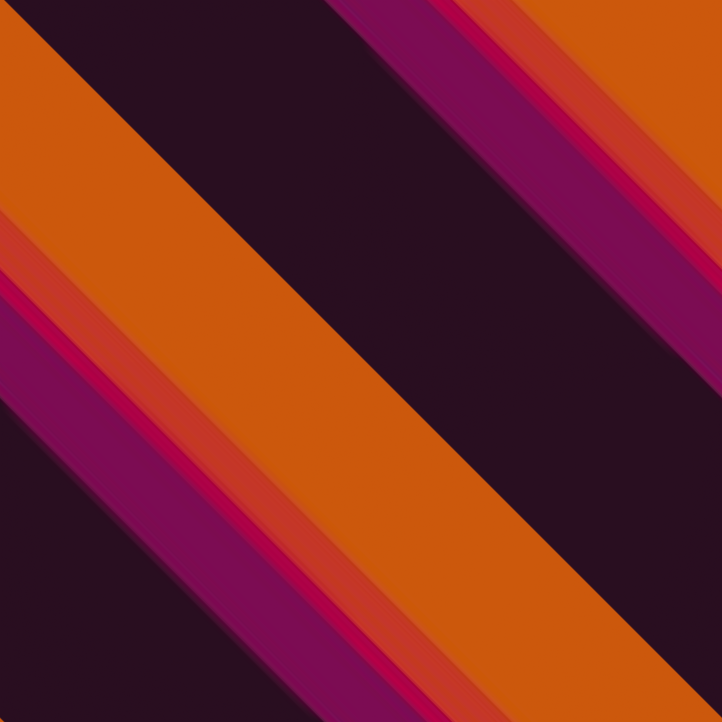
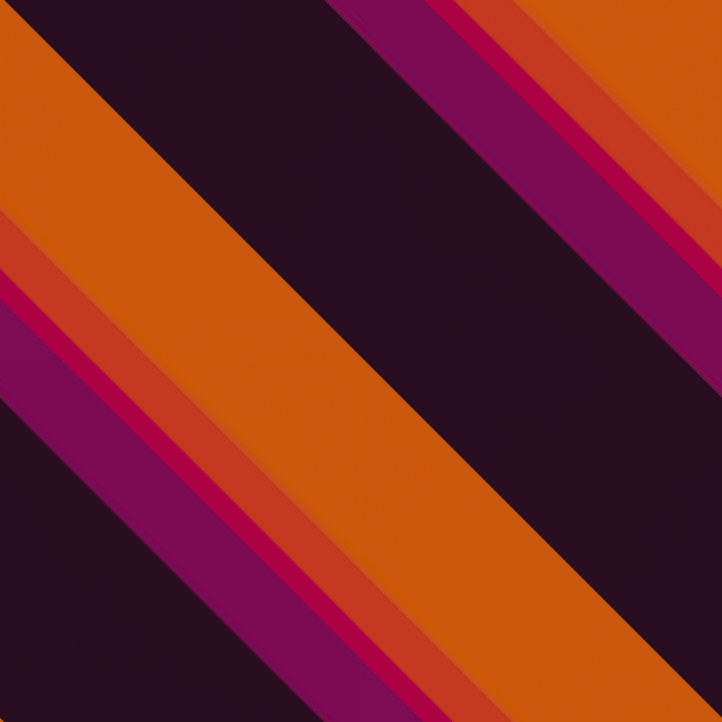
Updated Gyan's tiles

diff --git a/assets/css/style.min.css b/assets/css/style.min.css
@@ -1,1 +1,1 @@
-@import"https://fonts.googleapis.com/css?family=Roboto:300,800";input:focus,textarea:focus,button:focus{outline:none}.triangle{color:rgba(255,255,255,.9)}.dtext{position:relative;color:#fff;font-family:League Spartan;font-weight:300;font-size:18px;padding-top:0;margin:10px}.10px{padding:10px;margin:10px;height:10px}.purplehead{margin:auto;height:148px;width:auto;background-image:-webkit-linear-gradient(#4f173c 0,#210b19 100%);background-image:linear-gradient(#4f173c 0,#210b19 100%)}.zero{padding-top:16px;font-family:League Spartan;font-size:60px;color:#fff}.subzero{font-family:League Spartan;font-size:16px;color:#ff6e0f}body{background-image:url(http://gyanl.github.io/zerodesign/assets/img/bg.png);background-size:240px 240px;margin:0}.header-fixed{background:rgba(255,0,0,.1);box-shadow:0 2px 10px -6px rgba(0,0,0,.75);position:relative;top:0;left:0;right:0;padding:15px;margin:auto;width:auto;font-family:Roboto,Helvetica,sans-serif;font-weight:300;font-size:18px;color:#fff}.header-fixed a{text-decoration:none}.header-fixed p{font-family:League Spartan;text-transform:uppercase;padding-top:6px;width:710px;margin:auto}.blogcontainer{width:100%;background:#fff;margin:auto}.blogcontainer img{margin:auto;width:720px}.Gyan{margin-left:132px;margin-top:36px;font-family:Roboto;font-size:40px;font-weight:800}.card{display:inline-block;border-radius:6px;position:relative;margin:10px;width:320px;background-color:#fff;box-shadow:0 2px 10px -6px rgba(0,0,0,.75);-webkit-transition-duration:.4s;transition-duration:.4s;-webkit-transition-property:box-shadow,-webkit-transform;transition-property:box-shadow,transform;-webkit-transform:translateZ(0);transform:translateZ(0)}.card:hover,.card:active{box-shadow:0 7px 20px -4px rgba(0,0,0,.25);-webkit-transform:scale(1.05);transform:scale(1.05)}.card img{padding-top:0;border-radius:6px 6px 0 0}.txt{width:220px;font-family:Roboto,Helvetica,sans-serif;font-weight:300;font-size:18px;position:relative;text-align:center;padding:4px;margin-bottom:6px;color:rgba(0,0,0,.75)}.blogtitle{padding-top:120px;margin:auto;width:710px;color:#333;-webkit-font-smoothing:antialiased;-moz-osx-font-smoothing:grayscale;font-family:Roboto,Helvetica,sans-serif;letter-spacing:.16px;letter-spacing:.01rem;font-weight:700;font-style:normal;font-size:36px;line-height:1.2;letter-spacing:-.003em}.blogsubtitle{margin:auto;width:710px;margin-top:4px;color:rgba(0,0,0,.44);-webkit-font-smoothing:antialiased;-moz-osx-font-smoothing:grayscale;font-family:Roboto,Helvetica,sans-serif;letter-spacing:.16px;letter-spacing:.01rem;font-weight:300;font-size:14px;letter-spacing:-.003em}.blogtxt{margin:auto;padding-bottom:32px}.blogtxt i{font-style:italic}.blogtxt p{-webkit-font-smoothing:antialiased;-moz-osx-font-smoothing:grayscale;font-family:Georgia,Cambria,Times New Roman,Times,serif;letter-spacing:-.01em;font-weight:400;font-size:20px;line-height:1.5;margin:auto;width:710px;padding-top:16px;padding-bottom:16px}.blogcontainer a{color:#3b58c4;text-decoration:none;background-image:-webkit-linear-gradient(bottom,#f0f0f0,#f0f0f0 .08333em,#3b58c4 .08333em,#3b58c4 .125em,#f0f0f0 .125em);background-image:linear-gradient(to top,#f0f0f0,#f0f0f0 .08333em,#3b58c4 .08333em,#3b58c4 .125em,#f0f0f0 .125em);text-shadow:-.04167em -.04167em 0 #f0f0f0,-.04167em -.02083em 0 #f0f0f0,-.04167em 0 0 #f0f0f0,-.04167em .02083em 0 #f0f0f0,-.04167em .04167em 0 #f0f0f0,-.02083em -.04167em 0 #f0f0f0,-.02083em -.02083em 0 #f0f0f0,-.02083em 0 0 #f0f0f0,-.02083em .02083em 0 #f0f0f0,-.02083em .04167em 0 #f0f0f0,0 -.04167em 0 #f0f0f0,0 -.02083em 0 #f0f0f0,0 0 0 #f0f0f0,0 .02083em 0 #f0f0f0,0 .04167em 0 #f0f0f0,.02083em -.04167em 0 #f0f0f0,.02083em -.02083em 0 #f0f0f0,.02083em 0 0 #f0f0f0,.02083em .02083em 0 #f0f0f0,.02083em .04167em 0 #f0f0f0,.04167em -.04167em 0 #f0f0f0,.04167em -.02083em 0 #f0f0f0,.04167em 0 0 #f0f0f0,.04167em .02083em 0 #f0f0f0,.04167em .04167em 0 #f0f0f0}.footer{font-family:Roboto,Helvetica,sans-serif;font-weight:300;background:#333;width:auto;color:#fff;height:auto;position:relative;bottom:0;margin:0;padding-top:15px;padding-bottom:15px;left:0;right:0;text-align:center;font-size:20px;margin-top:40px}.hvr-grow-shadow{background-color:#fff;display:inline;border:none;margin:4px;border-radius:32px;color:rgba(0,0,0,.85);width:36px;height:36px;text-align:center;text-decoration:none;font-size:20px;font-family:Roboto,Helvetica,sans-serif;font-weight:900;display:inline-block;vertical-align:middle;-webkit-transform:translateZ(0);transform:translateZ(0);box-shadow:0 0 1px transparent;-webkit-backface-visibility:hidden;backface-visibility:hidden;-moz-osx-font-smoothing:grayscale;-webkit-transition-duration:.3s;transition-duration:.3s;-webkit-transition-property:box-shadow,-webkit-transform;transition-property:box-shadow,transform}.hvr-grow-shadow:hover,.hvr-grow-shadow:active{box-shadow:0 3px 34px -4px rgba(0,0,0,.5);-webkit-transform:scale(1.2);transform:scale(1.2);outline:none}.heart{display:inline;font-size:14px;color:#e74c3c}.cont{display:inline;margin:20px;padding:20px;-webkit-align-content:space-between;-ms-flex-line-pack:justify;align-content:space-between}.scale75{-webkit-transform:scale(.75,.75);transform:scale(.75,.75)}.UItext{text-align:center;text-transform:uppercase;padding-top:44px;color:#fff;-webkit-font-smoothing:antialiased;-moz-osx-font-smoothing:grayscale;font-family:League Spartan;letter-spacing:.16px;letter-spacing:.01rem;font-weight:300;font-style:normal;font-size:20px;line-height:1.58;letter-spacing:-.003em}hr{margin:100px;margin-top:80px;margin-bottom:80px}@media only screen and (max-width:768px){body{background-size:120px 120px}.footer{font-size:16px;position:relative}.Gyan{margin-left:auto;width:auto;margin:auto}.blogcontainer img{width:100%;margin:auto}.blogtitle{padding-top:60px;width:90%;margin:auto}.blogsubtitle{padding-top:14px;width:90%;margin:auto}.blogtxt{margin:auto;padding-bottom:20px}.blogtxt p{margin:auto;width:90%;font-size:16px;padding-top:14px;padding-bottom:20px}.scale75{-webkit-transform:none;transform:none}.header-fixed p{width:auto;padding-left:4px}.UItext{margin-bottom:0;padding-top:30px;padding-bottom:10px}hr{margin:30px;margin-top:36px}}
+@import"https://fonts.googleapis.com/css?family=Roboto:300,800";input:focus,textarea:focus,button:focus{outline:none}a{text-decoration:none}.dtext{position:relative;color:#fff;font-family:League Spartan;font-weight:300;font-size:18px;padding-top:0;margin:10px}.10px{padding:10px;margin:10px;height:10px}.purplehead{margin:auto;height:148px;width:auto;background-image:-webkit-linear-gradient(#4f173c 0,#210b19 100%);background-image:linear-gradient(#4f173c 0,#210b19 100%)}.zero{padding-top:16px;font-family:League Spartan;font-size:60px;color:#fff}.subzero{font-family:League Spartan;font-size:16px;color:#ff6e0f}body{background-image:url(../../assets/img/bg.png);background-size:361px 361px;margin:0}.header-fixed{background:rgba(255,0,0,.1);box-shadow:0 2px 10px -6px rgba(0,0,0,.75);position:relative;top:0;left:0;right:0;padding:15px;margin:auto;width:auto;font-family:Roboto,Helvetica,sans-serif;font-weight:300;font-size:18px;color:#fff}.header-fixed a{text-decoration:none}.header-fixed p{font-family:League Spartan;text-transform:uppercase;padding-top:6px;width:710px;margin:auto}.blogcontainer{width:100%;background:#fff;margin:auto}.blogcontainer img{margin:auto;width:720px}.Gyan{margin-left:132px;margin-top:36px;font-family:Roboto;font-size:40px;font-weight:800}.card{display:inline-block;border-radius:6px;position:relative;margin:10px;width:320px;background-color:#fff;box-shadow:0 2px 10px -6px rgba(0,0,0,.75);-webkit-transition-duration:.4s;transition-duration:.4s;-webkit-transition-property:box-shadow,-webkit-transform;transition-property:box-shadow,transform;-webkit-transform:translateZ(0);transform:translateZ(0)}.card:hover,.card:active{box-shadow:0 7px 20px -4px rgba(0,0,0,.25);-webkit-transform:scale(1.05);transform:scale(1.05)}.card img{padding-top:0;border-radius:6px 6px 0 0}.txt{width:220px;font-family:Roboto,Helvetica,sans-serif;font-weight:300;font-size:18px;position:relative;text-align:center;padding:4px;margin-bottom:6px;color:rgba(0,0,0,.75)}.blogtitle{padding-top:120px;margin:auto;width:710px;color:#333;-webkit-font-smoothing:antialiased;-moz-osx-font-smoothing:grayscale;font-family:Roboto,Helvetica,sans-serif;letter-spacing:.16px;letter-spacing:.01rem;font-weight:700;font-style:normal;font-size:36px;line-height:1.2;letter-spacing:-.003em}.blogsubtitle{margin:auto;width:710px;margin-top:4px;color:rgba(0,0,0,.44);-webkit-font-smoothing:antialiased;-moz-osx-font-smoothing:grayscale;font-family:Roboto,Helvetica,sans-serif;letter-spacing:.16px;letter-spacing:.01rem;font-weight:300;font-size:14px;letter-spacing:-.003em}.blogtxt{margin:auto;padding-bottom:32px}.blogtxt i{font-style:italic}.blogtxt p{-webkit-font-smoothing:antialiased;-moz-osx-font-smoothing:grayscale;font-family:Georgia,Cambria,Times New Roman,Times,serif;letter-spacing:-.01em;font-weight:400;font-size:20px;line-height:1.5;margin:auto;width:710px;padding-top:16px;padding-bottom:16px}.blogcontainer a{color:#3b58c4;text-decoration:none;background-image:-webkit-linear-gradient(bottom,#f0f0f0,#f0f0f0 .08333em,#3b58c4 .08333em,#3b58c4 .125em,#f0f0f0 .125em);background-image:linear-gradient(to top,#f0f0f0,#f0f0f0 .08333em,#3b58c4 .08333em,#3b58c4 .125em,#f0f0f0 .125em);text-shadow:-.04167em -.04167em 0 #f0f0f0,-.04167em -.02083em 0 #f0f0f0,-.04167em 0 0 #f0f0f0,-.04167em .02083em 0 #f0f0f0,-.04167em .04167em 0 #f0f0f0,-.02083em -.04167em 0 #f0f0f0,-.02083em -.02083em 0 #f0f0f0,-.02083em 0 0 #f0f0f0,-.02083em .02083em 0 #f0f0f0,-.02083em .04167em 0 #f0f0f0,0 -.04167em 0 #f0f0f0,0 -.02083em 0 #f0f0f0,0 0 0 #f0f0f0,0 .02083em 0 #f0f0f0,0 .04167em 0 #f0f0f0,.02083em -.04167em 0 #f0f0f0,.02083em -.02083em 0 #f0f0f0,.02083em 0 0 #f0f0f0,.02083em .02083em 0 #f0f0f0,.02083em .04167em 0 #f0f0f0,.04167em -.04167em 0 #f0f0f0,.04167em -.02083em 0 #f0f0f0,.04167em 0 0 #f0f0f0,.04167em .02083em 0 #f0f0f0,.04167em .04167em 0 #f0f0f0}.footer{font-family:Roboto,Helvetica,sans-serif;font-weight:300;background:#333;width:auto;color:#fff;height:auto;position:relative;bottom:0;margin:0;padding-top:15px;padding-bottom:15px;left:0;right:0;text-align:center;font-size:20px;margin-top:40px}.hvr-grow-shadow{background-color:#fff;display:inline;border:none;margin:4px;border-radius:32px;color:rgba(0,0,0,.85);width:36px;height:36px;text-align:center;text-decoration:none;font-size:20px;font-family:Roboto,Helvetica,sans-serif;font-weight:900;display:inline-block;vertical-align:middle;-webkit-transform:translateZ(0);transform:translateZ(0);box-shadow:0 0 1px transparent;-webkit-backface-visibility:hidden;backface-visibility:hidden;-moz-osx-font-smoothing:grayscale;-webkit-transition-duration:.3s;transition-duration:.3s;-webkit-transition-property:box-shadow,-webkit-transform;transition-property:box-shadow,transform}.hvr-grow-shadow:hover,.hvr-grow-shadow:active{box-shadow:0 3px 34px -4px rgba(0,0,0,.5);-webkit-transform:scale(1.2);transform:scale(1.2);outline:none}.heart{display:inline;font-size:14px;color:#e74c3c}.cont{display:inline;margin:20px;padding:20px;-webkit-align-content:space-between;-ms-flex-line-pack:justify;align-content:space-between}.scale75{-webkit-transform:scale(.75,.75);transform:scale(.75,.75)}.UItext{text-align:center;text-transform:uppercase;padding-top:44px;color:#fff;-webkit-font-smoothing:antialiased;-moz-osx-font-smoothing:grayscale;font-family:League Spartan;letter-spacing:.16px;letter-spacing:.01rem;font-weight:300;font-style:normal;font-size:20px;line-height:1.58;letter-spacing:-.003em}hr{margin:100px;margin-top:80px;margin-bottom:80px}@media only screen and (max-width:768px){body{background-size:120px 120px}.footer{font-size:16px;position:relative}.Gyan{margin-left:auto;width:auto;margin:auto}.blogcontainer img{width:100%;margin:auto}.blogtitle{padding-top:60px;width:90%;margin:auto}.blogsubtitle{padding-top:14px;width:90%;margin:auto}.blogtxt{margin:auto;padding-bottom:20px}.blogtxt p{margin:auto;width:90%;font-size:16px;padding-top:14px;padding-bottom:20px}.scale75{-webkit-transform:none;transform:none}.header-fixed p{width:auto;padding-left:4px}.UItext{margin-bottom:0;padding-top:30px;padding-bottom:10px}hr{margin:30px;margin-top:36px}}

diff --git a/ioteractions.html b/ioteractions.html
@@ -11,39 +11,22 @@
 
 <body id="index" class="index">
 
-
-<div class="purplehead">
-
-<div class="zero">
-  <center>zero</center>
+<div class="header-fixed"><a href="index.html"><p>Home</a> &#x25b6; <a href="jobsplane.html">Ioteractions</a></div>
+  <div class="blogcontainer">
+  <div class="blogtitle">Ioteractions</div>
+  <div class="blogsubtitle">10 May 2016</div>
+  <div class="blogtxt">
+    <p>Have you ever picked a username online, only to realise ‘animefan’ is already taken on Twitter, Facebook, Instagram and Tumblr? Have you stared in despair at the sign up screen as it tells you you can have animal_fan instead? Yeah, me too. It's the quintessential modern problem. And this right here is a solution.
+    </p><center><img src="/assets/img/animefan.png"></center>
+    <p>Username Availability Checker lets you input a username, and <i>almost</i> instantly find out if it’s been taken on Facebook, Twitter, Instagram, Tumblr, Pinterest, Soundcloud and Github. Seriously! <a href="https://username-check.herokuapp.com">Try it out now!</a> No more late nights spent in regret! No more silent tears in the rain! Only one username that you can use anywhere on the internet.
+</p><center><img src="/assets/img/minihack.jpg"></center>
+    <p>This project was the result of an afternoon spent with my friend <a href="https://github.com/manu-chroma">Manvendra</a> trying to learn Python. We used <a href="http://flask.pocoo.org">Flask</a>, a python framework, to create an API which checks if a username exists on a website. It’s all very clever, and you can read more about it on the <a href="https://github.com/manu-chroma/username-availability-checker">project page on Github</a>.
 </div>
-
-  <div class="subzero">
-    <center>WORK  -  ABOUT US  -  PHILOSOPHY</center>
-  </div>
-
 </div>
-<div class="10px">.</div>
+<div class="UItext">Other Projects</div>
+
+<div class="scale75">
 <center>
-				 <div class="dtext">"Good design is as little design as possible."</div>
-          <div class="dtext">- Dieter Rams</div>
-
-			 </center>
-<center>
-    <a href="jobsplane.html">
-		      <div class="card">
-            	<img src="assets/img/jobsplane.png" height="160" width="320">
-            	<div class="txt">Jobsplane</div>
-         	</div>
-</a>
-
-    <a href="ioteractions.html">
-		      <div class="card">
-            	<img src="assets/img/ioteractions.png" height="160" width="320">
-            	<div class="txt">Ioteractions</div>
-         	</div>
-</a>
-
     <a href="pmo.html">
 		      <div class="card">
             	<img src="assets/img/pmo.png" height="160" width="320">
@@ -51,32 +34,8 @@
          	</div>
 </a>
 
-    <a href="hackindia.html">
-		      <div class="card">
-            	<img src="assets/img/hackindia.png" height="160" width="320">
-            	<div class="txt">HackIndia</div>
-         	</div>
-</a>
-
-    <a href="people.html">
-		      <div class="card">
-            	<img src="assets/img/people.png" height="160" width="320">
-            	<div class="txt">People</div>
-         	</div>
-</a>
-
-    <a href="yurii.html">
-		      <div class="card">
-            	<img src="assets/img/yurii.png" height="160" width="320">
-            	<div class="txt">Yurii</div>
-         	</div>
-</a>
-
-
-<div class="spaced">
 </center>
 </div>
-
   <div class="footer">
       <center>
          <a href="https://www.facebook.com/gyandroid">
@@ -112,7 +71,3 @@
 </body>
 </html>
 
-
-	<script src="/assets/js/script.js"></script>
-</body>
-</html>

diff --git a/people.html b/people.html
@@ -11,39 +11,22 @@
 
 <body id="index" class="index">
 
-
-<div class="purplehead">
-
-<div class="zero">
-  <center>zero</center>
+<div class="header-fixed"><a href="index.html"><p>Home</a> &#x25b6; <a href="jobsplane.html">Ioteractions</a></div>
+  <div class="blogcontainer">
+  <div class="blogtitle">Ioteractions</div>
+  <div class="blogsubtitle">10 May 2016</div>
+  <div class="blogtxt">
+    <p>Have you ever picked a username online, only to realise ‘animefan’ is already taken on Twitter, Facebook, Instagram and Tumblr? Have you stared in despair at the sign up screen as it tells you you can have animal_fan instead? Yeah, me too. It's the quintessential modern problem. And this right here is a solution.
+    </p><center><img src="/assets/img/animefan.png"></center>
+    <p>Username Availability Checker lets you input a username, and <i>almost</i> instantly find out if it’s been taken on Facebook, Twitter, Instagram, Tumblr, Pinterest, Soundcloud and Github. Seriously! <a href="https://username-check.herokuapp.com">Try it out now!</a> No more late nights spent in regret! No more silent tears in the rain! Only one username that you can use anywhere on the internet.
+</p><center><img src="/assets/img/minihack.jpg"></center>
+    <p>This project was the result of an afternoon spent with my friend <a href="https://github.com/manu-chroma">Manvendra</a> trying to learn Python. We used <a href="http://flask.pocoo.org">Flask</a>, a python framework, to create an API which checks if a username exists on a website. It’s all very clever, and you can read more about it on the <a href="https://github.com/manu-chroma/username-availability-checker">project page on Github</a>.
 </div>
-
-  <div class="subzero">
-    <center>WORK  -  ABOUT US  -  PHILOSOPHY</center>
-  </div>
-
 </div>
-<div class="10px">.</div>
+<div class="UItext">Other Projects</div>
+
+<div class="scale75">
 <center>
-				 <div class="dtext">"Good design is as little design as possible."</div>
-          <div class="dtext">- Dieter Rams</div>
-
-			 </center>
-<center>
-    <a href="jobsplane.html">
-		      <div class="card">
-            	<img src="assets/img/jobsplane.png" height="160" width="320">
-            	<div class="txt">Jobsplane</div>
-         	</div>
-</a>
-
-    <a href="ioteractions.html">
-		      <div class="card">
-            	<img src="assets/img/ioteractions.png" height="160" width="320">
-            	<div class="txt">Ioteractions</div>
-         	</div>
-</a>
-
     <a href="pmo.html">
 		      <div class="card">
             	<img src="assets/img/pmo.png" height="160" width="320">
@@ -51,32 +34,8 @@
          	</div>
 </a>
 
-    <a href="hackindia.html">
-		      <div class="card">
-            	<img src="assets/img/hackindia.png" height="160" width="320">
-            	<div class="txt">HackIndia</div>
-         	</div>
-</a>
-
-    <a href="people.html">
-		      <div class="card">
-            	<img src="assets/img/people.png" height="160" width="320">
-            	<div class="txt">People</div>
-         	</div>
-</a>
-
-    <a href="yurii.html">
-		      <div class="card">
-            	<img src="assets/img/yurii.png" height="160" width="320">
-            	<div class="txt">Yurii</div>
-         	</div>
-</a>
-
-
-<div class="spaced">
 </center>
 </div>
-
   <div class="footer">
       <center>
          <a href="https://www.facebook.com/gyandroid">
@@ -112,7 +71,3 @@
 </body>
 </html>
 
-
-	<script src="/assets/js/script.js"></script>
-</body>
-</html>

diff --git a/hackindia.html b/hackindia.html
@@ -11,39 +11,22 @@
 
 <body id="index" class="index">
 
-
-<div class="purplehead">
-
-<div class="zero">
-  <center>zero</center>
+<div class="header-fixed"><a href="index.html"><p>Home</a> &#x25b6; <a href="jobsplane.html">HackIndia</a></div>
+  <div class="blogcontainer">
+  <div class="blogtitle">HackIndia</div>
+  <div class="blogsubtitle">10 May 2016</div>
+  <div class="blogtxt">
+    <p>Have you ever picked a username online, only to realise ‘animefan’ is already taken on Twitter, Facebook, Instagram and Tumblr? Have you stared in despair at the sign up screen as it tells you you can have animal_fan instead? Yeah, me too. It's the quintessential modern problem. And this right here is a solution.
+    </p><center><img src="/assets/img/animefan.png"></center>
+    <p>Username Availability Checker lets you input a username, and <i>almost</i> instantly find out if it’s been taken on Facebook, Twitter, Instagram, Tumblr, Pinterest, Soundcloud and Github. Seriously! <a href="https://username-check.herokuapp.com">Try it out now!</a> No more late nights spent in regret! No more silent tears in the rain! Only one username that you can use anywhere on the internet.
+</p><center><img src="/assets/img/minihack.jpg"></center>
+    <p>This project was the result of an afternoon spent with my friend <a href="https://github.com/manu-chroma">Manvendra</a> trying to learn Python. We used <a href="http://flask.pocoo.org">Flask</a>, a python framework, to create an API which checks if a username exists on a website. It’s all very clever, and you can read more about it on the <a href="https://github.com/manu-chroma/username-availability-checker">project page on Github</a>.
 </div>
-
-  <div class="subzero">
-    <center>WORK  -  ABOUT US  -  PHILOSOPHY</center>
-  </div>
-
 </div>
-<div class="10px">.</div>
+<div class="UItext">Other Projects</div>
+
+<div class="scale75">
 <center>
-				 <div class="dtext">"Good design is as little design as possible."</div>
-          <div class="dtext">- Dieter Rams</div>
-
-			 </center>
-<center>
-    <a href="jobsplane.html">
-		      <div class="card">
-            	<img src="assets/img/jobsplane.png" height="160" width="320">
-            	<div class="txt">Jobsplane</div>
-         	</div>
-</a>
-
-    <a href="ioteractions.html">
-		      <div class="card">
-            	<img src="assets/img/ioteractions.png" height="160" width="320">
-            	<div class="txt">Ioteractions</div>
-         	</div>
-</a>
-
     <a href="pmo.html">
 		      <div class="card">
             	<img src="assets/img/pmo.png" height="160" width="320">
@@ -51,32 +34,8 @@
          	</div>
 </a>
 
-    <a href="hackindia.html">
-		      <div class="card">
-            	<img src="assets/img/hackindia.png" height="160" width="320">
-            	<div class="txt">HackIndia</div>
-         	</div>
-</a>
-
-    <a href="people.html">
-		      <div class="card">
-            	<img src="assets/img/people.png" height="160" width="320">
-            	<div class="txt">People</div>
-         	</div>
-</a>
-
-    <a href="yurii.html">
-		      <div class="card">
-            	<img src="assets/img/yurii.png" height="160" width="320">
-            	<div class="txt">Yurii</div>
-         	</div>
-</a>
-
-
-<div class="spaced">
 </center>
 </div>
-
   <div class="footer">
       <center>
          <a href="https://www.facebook.com/gyandroid">
@@ -112,7 +71,3 @@
 </body>
 </html>
 
-
-	<script src="/assets/js/script.js"></script>
-</body>
-</html>

diff --git a/yurii.html b/yurii.html
@@ -11,39 +11,22 @@
 
 <body id="index" class="index">
 
-
-<div class="purplehead">
-
-<div class="zero">
-  <center>zero</center>
+<div class="header-fixed"><a href="index.html"><p>Home</a> &#x25b6; <a href="yurii.html">Yurii</a></div>
+  <div class="blogcontainer">
+  <div class="blogtitle">Yurii</div>
+  <div class="blogsubtitle">10 May 2016</div>
+  <div class="blogtxt">
+    <p>Have you ever picked a username online, only to realise ‘animefan’ is already taken on Twitter, Facebook, Instagram and Tumblr? Have you stared in despair at the sign up screen as it tells you you can have animal_fan instead? Yeah, me too. It's the quintessential modern problem. And this right here is a solution.
+    </p><center><img src="/assets/img/animefan.png"></center>
+    <p>Username Availability Checker lets you input a username, and <i>almost</i> instantly find out if it’s been taken on Facebook, Twitter, Instagram, Tumblr, Pinterest, Soundcloud and Github. Seriously! <a href="https://username-check.herokuapp.com">Try it out now!</a> No more late nights spent in regret! No more silent tears in the rain! Only one username that you can use anywhere on the internet.
+</p><center><img src="/assets/img/minihack.jpg"></center>
+    <p>This project was the result of an afternoon spent with my friend <a href="https://github.com/manu-chroma">Manvendra</a> trying to learn Python. We used <a href="http://flask.pocoo.org">Flask</a>, a python framework, to create an API which checks if a username exists on a website. It’s all very clever, and you can read more about it on the <a href="https://github.com/manu-chroma/username-availability-checker">project page on Github</a>.
 </div>
-
-  <div class="subzero">
-    <center>WORK  -  ABOUT US  -  PHILOSOPHY</center>
-  </div>
-
 </div>
-<div class="10px">.</div>
+<div class="UItext">Other Projects</div>
+
+<div class="scale75">
 <center>
-				 <div class="dtext">"Good design is as little design as possible."</div>
-          <div class="dtext">- Dieter Rams</div>
-
-			 </center>
-<center>
-    <a href="jobsplane.html">
-		      <div class="card">
-            	<img src="assets/img/jobsplane.png" height="160" width="320">
-            	<div class="txt">Jobsplane</div>
-         	</div>
-</a>
-
-    <a href="ioteractions.html">
-		      <div class="card">
-            	<img src="assets/img/ioteractions.png" height="160" width="320">
-            	<div class="txt">Ioteractions</div>
-         	</div>
-</a>
-
     <a href="pmo.html">
 		      <div class="card">
             	<img src="assets/img/pmo.png" height="160" width="320">
@@ -51,32 +34,8 @@
          	</div>
 </a>
 
-    <a href="hackindia.html">
-		      <div class="card">
-            	<img src="assets/img/hackindia.png" height="160" width="320">
-            	<div class="txt">HackIndia</div>
-         	</div>
-</a>
-
-    <a href="people.html">
-		      <div class="card">
-            	<img src="assets/img/people.png" height="160" width="320">
-            	<div class="txt">People</div>
-         	</div>
-</a>
-
-    <a href="yurii.html">
-		      <div class="card">
-            	<img src="assets/img/yurii.png" height="160" width="320">
-            	<div class="txt">Yurii</div>
-         	</div>
-</a>
-
-
-<div class="spaced">
 </center>
 </div>
-
   <div class="footer">
       <center>
          <a href="https://www.facebook.com/gyandroid">
@@ -112,7 +71,3 @@
 </body>
 </html>
 
-
-	<script src="/assets/js/script.js"></script>
-</body>
-</html>

diff --git a/assets/css/style.css b/assets/css/style.css
@@ -2,6 +2,9 @@
 input:focus, textarea:focus, button:focus {
   outline: none; }
 
+a {
+  text-decoration: none; }
+
 .dtext {
   position: relative;
   color: #fff;
@@ -34,8 +37,8 @@ input:focus, textarea:focus, button:focus {
   color: #FF6E0F; }
 
 body {
-  background-image: url("http://gyanl.github.io/zerodesign/assets/img/bg.png");
-  background-size: 240px 240px;
+  background-image: url("../../assets/img/bg.png");
+  background-size: 361px 361px;
   margin: 0px; }
 
 .header-fixed {
